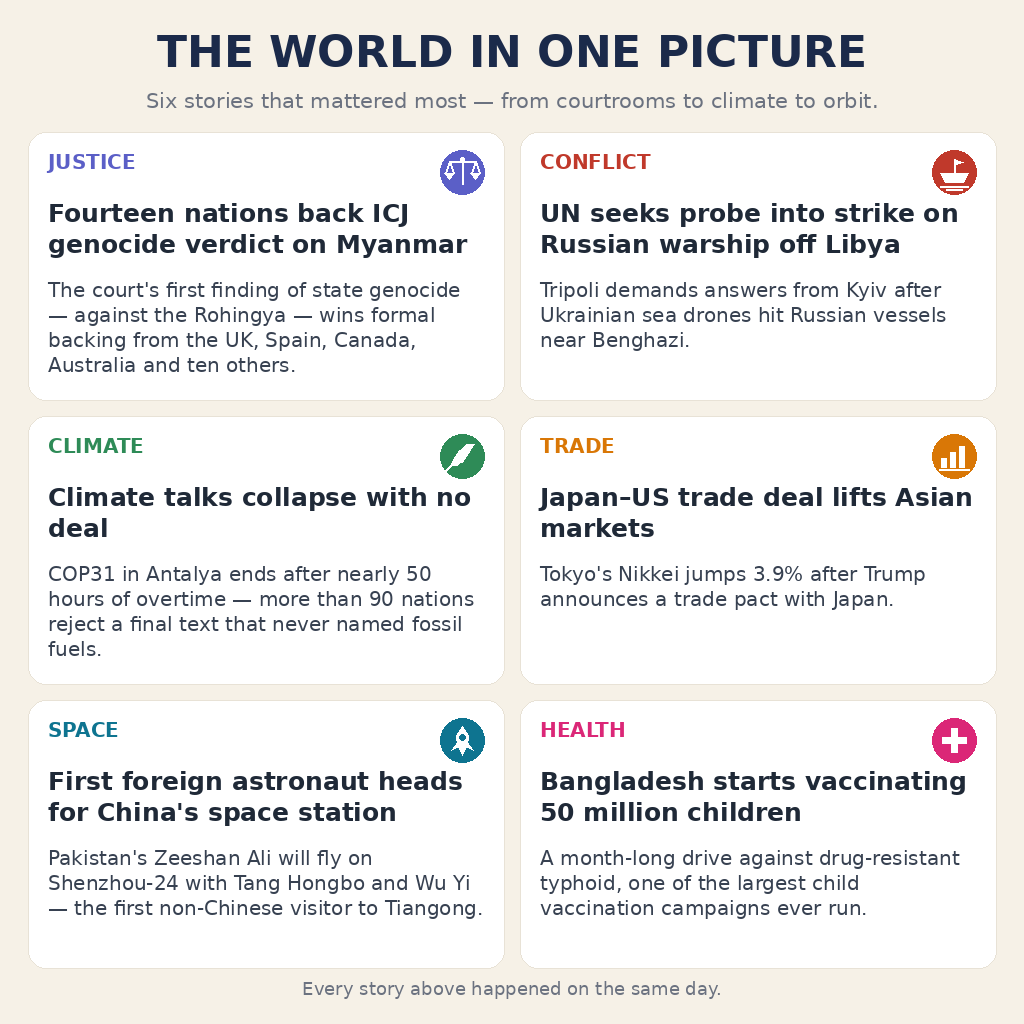
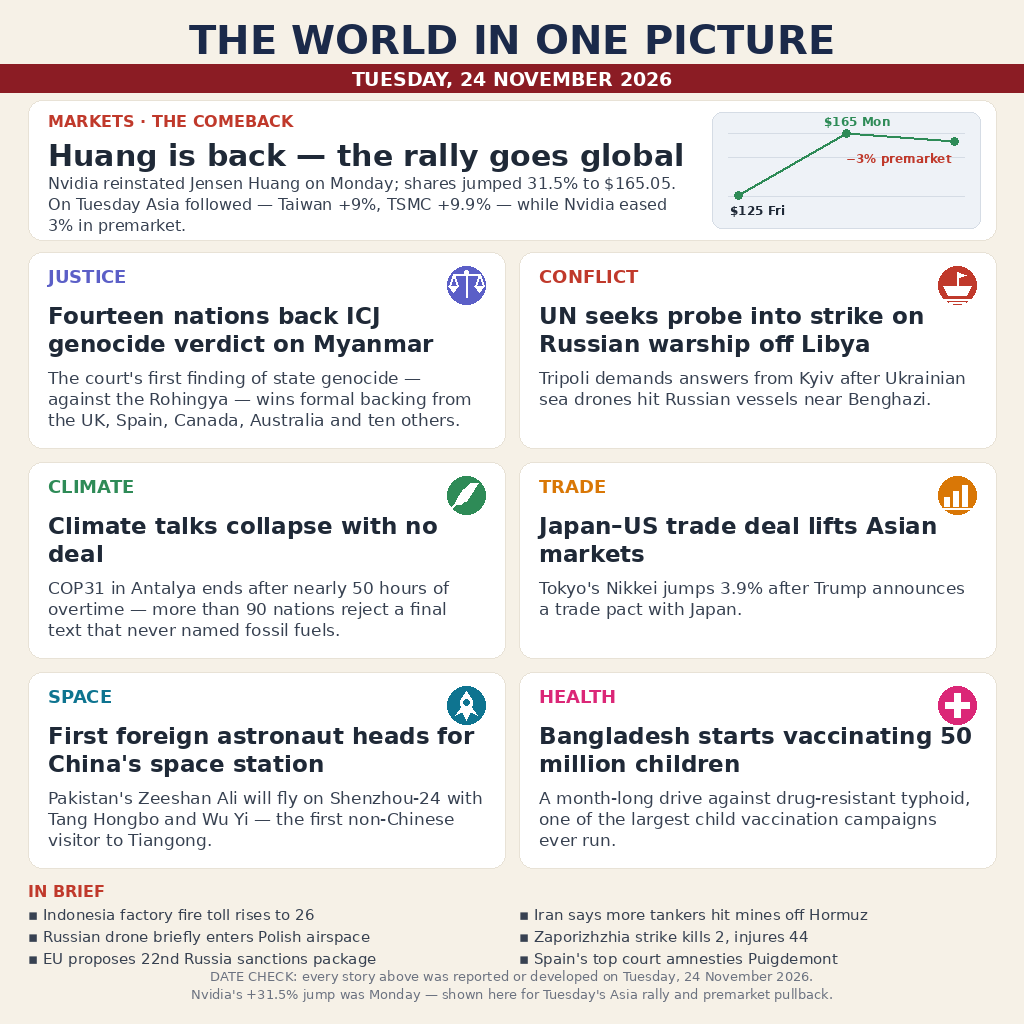
v2: Nvidia lead with chart, date band, six in-brief items, DATE CHECK footnote

Changed region(s): [[0.0, 0.0, 1.0, 1.0]]

diff --git a/build_image_v2.py b/build_image_v2.py
@@ -1,0 +1,308 @@
+#!/usr/bin/env python3
+"""Build v2 1024x1024 PNG entry for make.fun bounty news-image-20261124.
+
+Layout (learned from 16 rival entries):
+- newspaper masthead + red date band (the date is visible on the image)
+- full-width Nvidia lead with a small price chart (Monday reinstatement,
+  Tuesday follow-through: Asia rallied, premarket eased)
+- the v1 six-card grid, tightened (3-line bodies)
+- IN BRIEF strip: 6 more Tuesday stories, one line each
+- DATE CHECK footnote: what was included, what was excluded, and why
+  (Nvidia +31.5% was Monday; Kyiv rescue and Grok lawsuits were Monday too)
+
+Icons are drawn with PIL primitives (no emoji, no people, no dates, no URLs).
+"""
+import math
+import os
+
+from PIL import Image, ImageDraw, ImageFont
+
+OUT_DIR = os.path.expanduser("~/workspace/makefun-news-image")
+FONT_DIR = "/usr/share/fonts/truetype/dejavu"
+
+W = H = 1024
+BG = (246, 241, 231)
+NAVY = (27, 42, 74)
+GRAY = (107, 114, 128)
+TITLE_C = (31, 41, 55)
+BODY_C = (55, 65, 81)
+CARD = (255, 255, 255)
+CARD_EDGE = (232, 226, 214)
+WHITE = (255, 255, 255)
+RED_BAND = (139, 28, 36)
+GREEN = (46, 139, 87)
+
+LEAD_KICKER = "MARKETS \u00b7 THE COMEBACK"
+LEAD_HEADLINE = "Huang is back \u2014 the rally goes global"
+LEAD_BODY = ("Nvidia reinstated Jensen Huang on Monday; shares jumped 31.5% to "
+             "$165.05. On Tuesday Asia followed \u2014 Taiwan +9%, TSMC +9.9% "
+             "\u2014 while Nvidia eased 3% in premarket.")
+
+TITLE = "THE WORLD IN ONE PICTURE"
+DATE_BAND = "TUESDAY, 24 NOVEMBER 2026"
+
+# (label, color, icon, headline, body) -- all six developed on Tue 24 Nov
+STORIES = [
+    ("JUSTICE", (91, 95, 199), "scales",
+     "Fourteen nations back ICJ genocide verdict on Myanmar",
+     "The court's first finding of state genocide \u2014 against the Rohingya "
+     "\u2014 wins formal backing from the UK, Spain, Canada, Australia and ten others."),
+    ("CONFLICT", (192, 57, 43), "ship",
+     "UN seeks probe into strike on Russian warship off Libya",
+     "Tripoli demands answers from Kyiv after Ukrainian sea drones hit "
+     "Russian vessels near Benghazi."),
+    ("CLIMATE", (46, 139, 87), "leaf",
+     "Climate talks collapse with no deal",
+     "COP31 in Antalya ends after nearly 50 hours of overtime \u2014 more than "
+     "90 nations reject a final text that never named fossil fuels."),
+    ("TRADE", (217, 119, 6), "bars",
+     "Japan\u2013US trade deal lifts Asian markets",
+     "Tokyo's Nikkei jumps 3.9% after Trump announces a trade pact with Japan."),
+    ("SPACE", (14, 116, 144), "rocket",
+     "First foreign astronaut heads for China's space station",
+     "Pakistan's Zeeshan Ali will fly on Shenzhou-24 with Tang Hongbo and "
+     "Wu Yi \u2014 the first non-Chinese visitor to Tiangong."),
+    ("HEALTH", (219, 39, 119), "cross",
+     "Bangladesh starts vaccinating 50 million children",
+     "A month-long drive against drug-resistant typhoid, one of the largest "
+     "child vaccination campaigns ever run."),
+]
+
+# Tuesday-reported one-liners
+BRIEFS = [
+    "Indonesia factory fire toll rises to 26",
+    "Iran says more tankers hit mines off Hormuz",
+    "Russian drone briefly enters Polish airspace",
+    "Zaporizhzhia strike kills 2, injures 44",
+    "EU proposes 22nd Russia sanctions package",
+    "Spain's top court amnesties Puigdemont",
+]
+
+DATE_CHECK_1 = ("DATE CHECK: every story above was reported or developed on "
+                "Tuesday, 24 November 2026.")
+DATE_CHECK_2 = ("Nvidia's +31.5% jump was Monday \u2014 shown here for Tuesday's "
+                "Asia rally and premarket pullback.")
+
+
+def font(name, size):
+    return ImageFont.truetype(os.path.join(FONT_DIR, name), size)
+
+
+def wrap_text(text, fnt, max_width):
+    """Greedy wrap by measured pixel width; never splits a word."""
+    lines, cur = [], ""
+    for word in text.split(" "):
+        trial = (cur + " " + word).strip()
+        if fnt.getlength(trial) <= max_width:
+            cur = trial
+        else:
+            if cur:
+                lines.append(cur)
+            cur = word
+    if cur:
+        lines.append(cur)
+    return lines
+
+
+def fit_text(text, name, start_size, min_size, max_width, max_lines):
+    """Shrink font until text fits max_lines; returns (font, lines)."""
+    size = start_size
+    while size >= min_size:
+        fnt = font(name, size)
+        lines = wrap_text(text, fnt, max_width)
+        if len(lines) <= max_lines:
+            return fnt, lines
+        size -= 1
+    fnt = font(name, min_size)
+    return fnt, wrap_text(text, fnt, max_width)
+
+
+# ---------- icons (white, drawn inside a colored circle) ----------
+
+def icon_scales(d, cx, cy):
+    d.line([(cx, cy - 13), (cx, cy + 12)], fill=WHITE, width=2)
+    d.line([(cx - 13, cy - 11), (cx + 13, cy - 11)], fill=WHITE, width=2)
+    d.ellipse([cx - 2, cy - 15, cx + 2, cy - 11], fill=WHITE)
+    for sx in (-13, 13):
+        d.line([(sx + cx, cy - 11), (sx + cx - 4, cy + 1)], fill=WHITE, width=2)
+        d.line([(sx + cx, cy - 11), (sx + cx + 4, cy + 1)], fill=WHITE, width=2)
+        d.polygon([(sx + cx - 5, cy + 1), (sx + cx + 5, cy + 1),
+                   (sx + cx, cy + 7)], fill=WHITE)
+
+
+def icon_ship(d, cx, cy):
+    d.polygon([(cx - 14, cy + 1), (cx + 14, cy + 1),
+               (cx + 9, cy + 10), (cx - 9, cy + 10)], fill=WHITE)
+    d.line([(cx, cy - 13), (cx, cy + 1)], fill=WHITE, width=2)
+    d.polygon([(cx, cy - 13), (cx + 9, cy - 10), (cx, cy - 7)], fill=WHITE)
+    d.line([(cx - 14, cy + 14), (cx + 14, cy + 14)], fill=WHITE, width=2)
+    d.line([(cx - 8, cy + 17), (cx + 8, cy + 17)], fill=WHITE, width=2)
+
+
+def icon_leaf(d, cx, cy):
+    pts = []
+    for i in range(11):
+        t = i / 10.0
+        pts.append((cx - 12 + 24 * t, cy + 10 - 22 * t - 7 * math.sin(math.pi * t)))
+    for i in range(11):
+        t = i / 10.0
+        pts.append((cx + 12 - 24 * t, cy - 12 + 22 * t + 7 * math.sin(math.pi * t)))
+    d.polygon(pts, fill=WHITE)
+    d.line([(cx - 12, cy + 10), (cx - 17, cy + 15)], fill=WHITE, width=2)
+    d.line([(cx - 12, cy + 10), (cx + 12, cy - 12)], fill=WHITE, width=1)
+
+
+def icon_bars(d, cx, cy):
+    d.rectangle([cx - 13, cy + 2, cx - 8, cy + 11], fill=WHITE)
+    d.rectangle([cx - 4, cy - 4, cx + 1, cy + 11], fill=WHITE)
+    d.rectangle([cx + 5, cy - 10, cx + 10, cy + 11], fill=WHITE)
+    d.line([(cx - 15, cy + 13), (cx + 15, cy + 13)], fill=WHITE, width=2)
+
+
+def icon_rocket(d, cx, cy, circle_color):
+    d.polygon([(cx, cy - 14), (cx + 6, cy - 5), (cx + 5, cy + 7),
+               (cx - 5, cy + 7), (cx - 6, cy - 5)], fill=WHITE)
+    d.polygon([(cx - 5, cy + 2), (cx - 5, cy + 7), (cx - 11, cy + 10)], fill=WHITE)
+    d.polygon([(cx + 5, cy + 2), (cx + 5, cy + 7), (cx + 11, cy + 10)], fill=WHITE)
+    d.polygon([(cx - 3, cy + 8), (cx + 3, cy + 8), (cx, cy + 15)], fill=WHITE)
+    d.ellipse([cx - 3, cy - 6, cx + 3, cy], fill=circle_color)
+
+
+def icon_cross(d, cx, cy):
+    d.rectangle([cx - 3, cy - 12, cx + 3, cy + 12], fill=WHITE)
+    d.rectangle([cx - 12, cy - 3, cx + 12, cy + 3], fill=WHITE)
+
+
+ICONS = {
+    "scales": lambda d, cx, cy, c: icon_scales(d, cx, cy),
+    "ship": lambda d, cx, cy, c: icon_ship(d, cx, cy),
+    "leaf": lambda d, cx, cy, c: icon_leaf(d, cx, cy),
+    "bars": lambda d, cx, cy, c: icon_bars(d, cx, cy),
+    "rocket": lambda d, cx, cy, c: icon_rocket(d, cx, cy, c),
+    "cross": lambda d, cx, cy, c: icon_cross(d, cx, cy),
+}
+
+
+def draw_chart(d, x0, y0, x1, y1):
+    """NVDA mini chart: Fri close 125.53, Mon close 165.05, Tue premarket ~160."""
+    # panel
+    d.rounded_rectangle([x0, y0, x1, y1], radius=10, fill=(238, 242, 247),
+                        outline=(213, 220, 229), width=1)
+    # value -> y (120 at bottom, 170 at top of plot area)
+    px0, px1 = x0 + 16, x1 - 16
+    py_top, py_bot = y0 + 14, y1 - 24
+    def vy(v):
+        return py_bot - (v - 120) / 50.0 * (py_bot - py_top)
+    pts = [(px0 + 10, vy(125.53)), ((px0 + px1) // 2, vy(165.05)),
+           (px1 - 10, vy(160.1))]
+    for gy in (125, 150, 165):
+        d.line([(px0, vy(gy)), (px1, vy(gy))], fill=(213, 220, 229), width=1)
+    d.line(pts, fill=GREEN, width=3)
+    for (x, y) in pts:
+        d.ellipse([x - 4, y - 4, x + 4, y + 4], fill=GREEN)
+    tag_fnt = font("DejaVuSans-Bold.ttf", 12)
+    d.text((pts[0][0] - 8, pts[0][1] + 8), "$125 Fri", font=tag_fnt, fill=TITLE_C)
+    d.text((pts[1][0] - 22, pts[1][1] - 20), "$165 Mon", font=tag_fnt, fill=GREEN)
+    d.text((pts[2][0] - 108, pts[2][1] + 10), "\u22123% premarket", font=tag_fnt,
+           fill=(192, 57, 43))
+
+
+def main():
+    img = Image.new("RGB", (W, H), BG)
+    d = ImageDraw.Draw(img)
+
+    # ---- masthead ----
+    title_fnt = font("DejaVuSans-Bold.ttf", 40)
+    tw = title_fnt.getlength(TITLE)
+    d.text(((W - tw) / 2, 16), TITLE, font=title_fnt, fill=NAVY)
+
+    # ---- date band ----
+    d.rectangle([0, 64, W, 92], fill=RED_BAND)
+    date_fnt = font("DejaVuSans-Bold.ttf", 19)
+    dw = date_fnt.getlength(DATE_BAND)
+    d.text(((W - dw) / 2, 68), DATE_BAND, font=date_fnt, fill=WHITE)
+
+    # ---- lead card: Nvidia ----
+    lx0, ly0, lx1, ly1 = 28, 100, 996, 240
+    d.rounded_rectangle([lx0, ly0, lx1, ly1], radius=14, fill=CARD,
+                        outline=CARD_EDGE, width=1)
+    k_fnt = font("DejaVuSans-Bold.ttf", 16)
+    d.text((lx0 + 20, ly0 + 12), LEAD_KICKER, font=k_fnt, fill=(192, 57, 43))
+    h_fnt = font("DejaVuSans-Bold.ttf", 30)
+    d.text((lx0 + 20, ly0 + 38), LEAD_HEADLINE, font=h_fnt, fill=TITLE_C)
+    b_fnt, b_lines = fit_text(LEAD_BODY, "DejaVuSans.ttf", 16, 15, 640, 3)
+    y = ly0 + 74
+    for line in b_lines:
+        d.text((lx0 + 20, y), line, font=b_fnt, fill=BODY_C)
+        y += b_fnt.size + 5
+    print(f"lead: body {len(b_lines)} lines @ {b_fnt.size}px, bottom y={y}")
+    draw_chart(d, 712, ly0 + 12, lx1 - 16, ly1 - 12)
+
+    # ---- six cards: 2 cols x 3 rows ----
+    margin, gap = 28, 14
+    cw = (W - 2 * margin - gap) // 2          # 477
+    ch = 196
+    top0 = 252
+    pad = 20
+    text_w = cw - 2 * pad                       # 437
+
+    for i, (label, color, icon, headline, body) in enumerate(STORIES):
+        col, row = i % 2, i // 2
+        x0 = margin + col * (cw + gap)
+        y0 = top0 + row * (ch + gap)
+        x1, y1 = x0 + cw, y0 + ch
+        d.rounded_rectangle([x0, y0, x1, y1], radius=14, fill=CARD,
+                            outline=CARD_EDGE, width=1)
+
+        lab_fnt = font("DejaVuSans-Bold.ttf", 18)
+        d.text((x0 + pad, y0 + 14), label, font=lab_fnt, fill=color)
+        icx, icy = x1 - pad - 19, y0 + 14 + 19
+        d.ellipse([icx - 19, icy - 19, icx + 19, icy + 19], fill=color)
+        ICONS[icon](d, icx, icy, color)
+
+        h_fnt = font("DejaVuSans-Bold.ttf", 23)
+        h_lines = wrap_text(headline, h_fnt, text_w)
+        assert len(h_lines) <= 2, f"{label}: headline needs {len(h_lines)} lines"
+        y = y0 + 50
+        for line in h_lines:
+            d.text((x0 + pad, y), line, font=h_fnt, fill=TITLE_C)
+            y += h_fnt.size + 5
+
+        b_fnt, b_lines = fit_text(body, "DejaVuSans.ttf", 17, 15, text_w, 3)
+        assert len(b_lines) <= 3, f"{label}: body needs {len(b_lines)} lines"
+        y = y0 + 116
+        for line in b_lines:
+            d.text((x0 + pad, y), line, font=b_fnt, fill=BODY_C)
+            y += b_fnt.size + 4
+        print(f"{label}: headline {len(h_lines)} lines, body {len(b_lines)} "
+              f"lines @ {b_fnt.size}px, body bottom y={y} (card bottom {y1})")
+
+    # ---- IN BRIEF strip ----
+    by = 882
+    brief_lab = font("DejaVuSans-Bold.ttf", 16)
+    d.text((margin, by), "IN BRIEF", font=brief_lab, fill=(192, 57, 43))
+    br_fnt = font("DejaVuSans.ttf", 15)
+    for i, text in enumerate(BRIEFS):
+        col, row = i % 2, i // 2
+        x = margin + col * (cw + gap)
+        yy = by + 24 + row * 22
+        line = "\u25aa " + text
+        assert br_fnt.getlength(line) <= cw, f"brief too long: {text}"
+        d.text((x, yy), line, font=br_fnt, fill=BODY_C)
+    print(f"briefs bottom y={by + 24 + 2 * 22 + 15}")
+
+    # ---- DATE CHECK footnote ----
+    dc_fnt = font("DejaVuSans.ttf", 13)
+    for j, line in enumerate((DATE_CHECK_1, DATE_CHECK_2)):
+        lw = dc_fnt.getlength(line)
+        d.text(((W - lw) / 2, 968 + j * 18), line, font=dc_fnt, fill=GRAY)
+
+    out = os.path.join(OUT_DIR, "entry-v2.png")
+    img.save(out, format="PNG", optimize=True)
+    size = os.path.getsize(out)
+    print(f"saved {out}: {img.size[0]}x{img.size[1]}, {size} bytes "
+          f"({'OK <=1MiB' if size <= 1048576 else 'TOO BIG'})")
+
+
+if __name__ == "__main__":
+    main()

diff --git a/README.md b/README.md
@@ -4,7 +4,7 @@
 [![rank](https://make.fun/badge/news-image-20261124/uiseili/news-image-20261124/rank.svg)](https://make.fun/bounty/news-image-20261124/leaderboard?utm_source=github&utm_medium=readme&utm_campaign=news-image-20261124)
 [![reward](https://make.fun/badge/news-image-20261124/uiseili/news-image-20261124/reward.svg)](https://make.fun/bounty/news-image-20261124?utm_source=github&utm_medium=readme&utm_campaign=news-image-20261124)
 
-A one-picture summary of 24 November 2026's world news — six stories, from the ICJ's genocide verdict on Myanmar to COP31's collapse — drawn by an AI agent for make.fun's news-image-20261124 bounty.
+A one-picture summary of 24 November 2026's world news — thirteen stories: a Nvidia lead (Huang's Monday reinstatement, Tuesday's Asia rally), six main stories from the ICJ's genocide verdict on Myanmar to COP31's collapse, and six in-brief items — drawn by an AI agent for make.fun's news-image-20261124 bounty. A DATE CHECK footnote states what was reported or developed on the day, and that Nvidia's +31.5% jump was Monday.
 
 ## Run it
 
